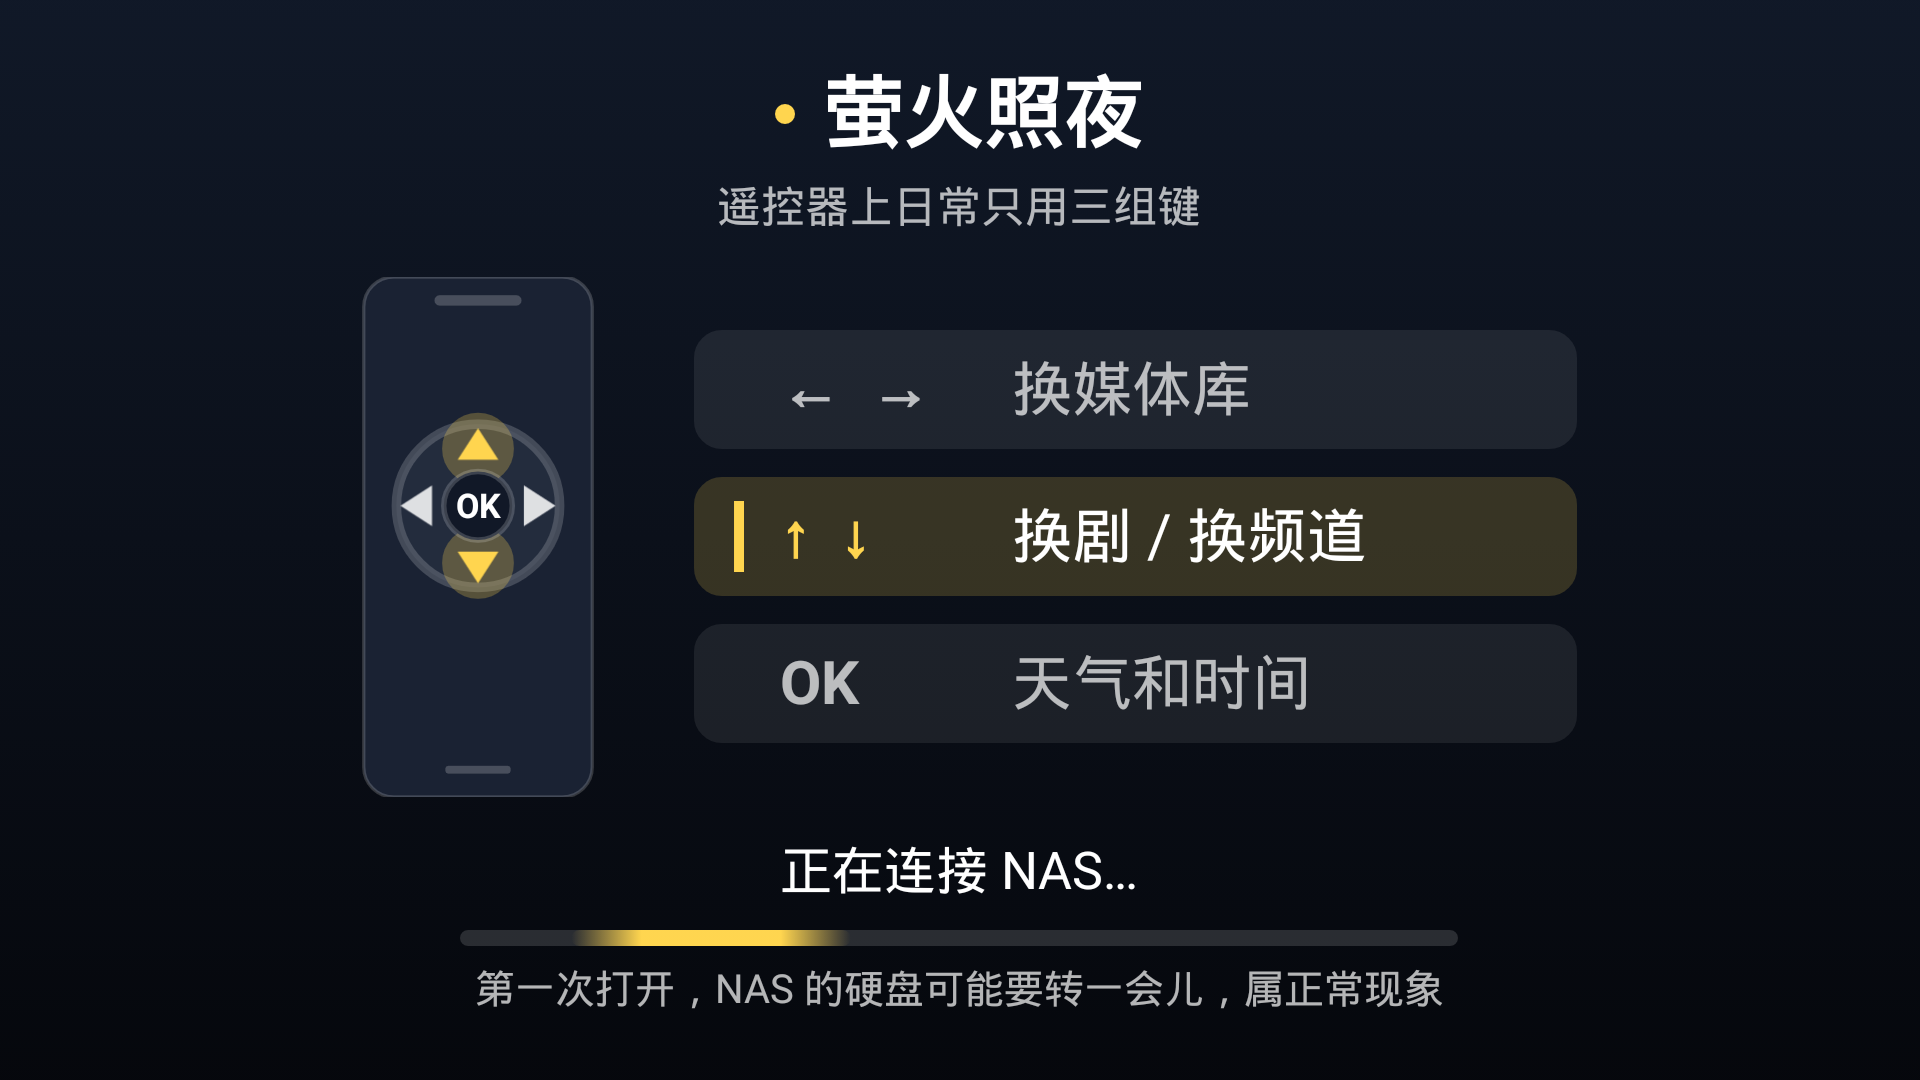
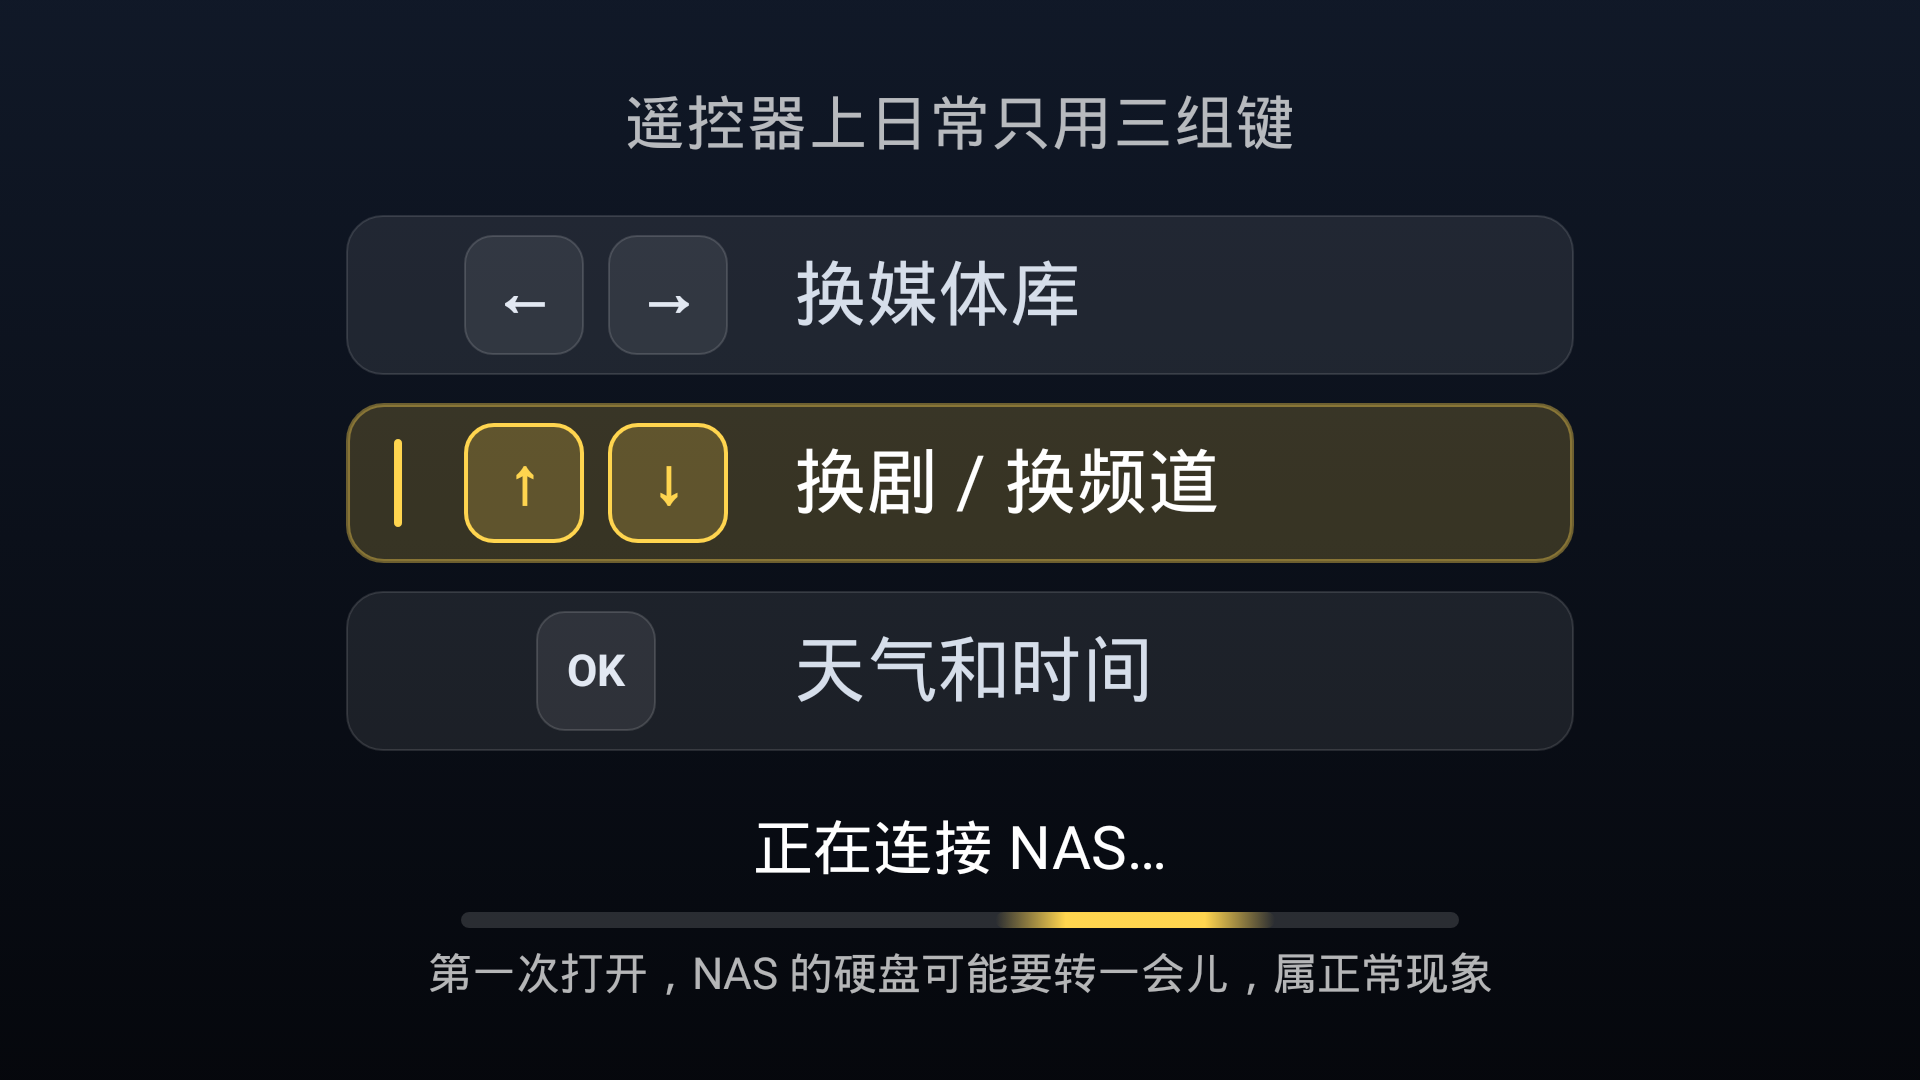
1.1.1：文档与开机页引导视觉
- README/DESIGN/DEVLOG/HANDOVER 更新到 1.1.1 / versionCode 5
- 开机页改为无品牌标题、无遥控器插画的三张键帽引导卡；截图换为 1.1.1 release 的 1080p 实拍
- 安装/回滚/验证范围与 Release SHA 同步；285 项单测

diff --git a/HANDOVER.md b/HANDOVER.md
@@ -1,13 +1,13 @@
 # HANDOVER：构建、发布与维护记录
 
-最后更新：2026-11-21 ｜ 当前版本 1.1.0（versionCode 4）｜ code commit `d6165f0` ｜ tag `v1.1.0`
+最后更新：2026-11-21 ｜ 当前版本 1.1.1（versionCode 5）｜ code commit `6464389` ｜ tag `v1.1.1`
 
 ## 仓库与发布
 
 - Gitea：`http://8.146.238.150:10200/everaine/firefly-tv`，分支 `main`。
-- Release：`v1.1.0`，资产 `app-release.apk`（24,757,677 B，
[1 lines of base64/hex data omitted]
-  本地留档 `firefly-apk/firefly-tv-1.1.0.apk`（`firefly-apk/` 不入库）。
+- Release：`v1.1.1`，资产 `app-release.apk`（24,756,684 B，
[1 lines of base64/hex data omitted]
+  本地留档 `firefly-apk/firefly-tv-1.1.1.apk`（`firefly-apk/` 不入库）。
 - 包名 `com.firefly.tv`；签名复用 Windows debug keystore
[1 lines of base64/hex data omitted]
   同签名覆盖安装保留配置和观看记录。
@@ -31,7 +31,7 @@ ANDROID_HOME='D:\AndroidSDK' WIN_ROOT='E:\firefly-build' \
 - JDK：`C:\Program Files\Microsoft\jdk-17.0.18.8-hotspot`
 - SDK：`D:\AndroidSDK`（build-tools 36.1.0 / platforms 34）
 - Gradle：`%USERPROFILE%\.gradle\wrapper\dists\gradle-8.11.1-bin\...`
-- 验证结果：285 项单测 0 失败；release 构建 2 分 07 秒（缓存热、R8 正常）。
+- 验证结果：285 项单测 0 失败；release 构建正常（缓存热、R8 正常）。
 - `scripts/win-build.sh` 在 WSL 侧先建 `build/apk`，否则 `.bat` 的产物回拷会静默失败；
   该脚本有可执行位（755），其余脚本按 README 用 `bash scripts/xxx.sh` 调用。
 
@@ -76,15 +76,15 @@ GitHub 全量 clone `Bilibili/FFmpeg` 太慢（十几分钟还没完），改用
 1. **从 Release APK 取**（最快）：`unzip -o app-release.apk 'lib/*'`，得到三个 ABI 的
    `libijk*.so`，按 `build-out/ijkplayer-full/<abi>/` 放好，再跑 `pack-ijkplayer-aar.sh`。
 2. **全量重编**：上面的四步。
-3. 不要从 AVD 的 userdata 里取：之前那个 UI-only 的 1.1.0 包 `lib/` 是空的，
+3. 不要从 AVD 的 userdata 里取：之前那个 UI-only 包 `lib/` 是空的，
    先 `unzip -l base.apk | grep lib/` 确认再谈恢复。
 
 ## 测试与验证
 
 - 单测：`testDebugUnitTest` 285 项，0 失败（2026-11-21）。
-- Release APK：`versionCode 4 / versionName 1.1.0`，minSdk 21 / targetSdk 34，
+- Release APK：`versionCode 5 / versionName 1.1.1`，minSdk 21 / targetSdk 34，
   native-code 三个 ABI，debug 签名；安装到 AVD API 22/x86，开机页 smoke test 正常。
-- 截图：`docs/images/boot.png`（新开机页）、`docs/images/switch.png`（换库过渡页）。
+- 截图：`docs/images/boot.png`（1.1.1 新开机页）、`docs/images/switch.png`（换库过渡页）。
   AVD 1920×1080/density 320；配置用 `scripts/push-prefs.sh` + `build/tmp/fake-prefs.xml`
   （gitignored）。过渡页截图是在 debug 预览里隐藏 SurfaceView 后拍的：模拟器软件渲染下
   独立 surface 会盖住普通 View；**release 包没有预览代码**，真实电视上视频层和过渡层正常叠加。
@@ -105,22 +105,23 @@ AVD：`firefly_tv`（API 22 / x86 / 1920×1080 / density 320）。安装：
 
 ## 发布流程
 
-1. `git push origin main`；`git tag -a v1.1.0 -m ... && git push origin v1.1.0`。
+1. `git push origin main`；`git tag -a v1.1.1 -m ... && git push origin v1.1.1`。
 2. Gitea API：`POST /api/v1/repos/everaine/firefly-tv/releases`（token 只从
    `~/.git-credentials` 读，不写进仓库/不打印），body 含安装、覆盖、回滚、未验证项。
 3. 上传资产 `app-release.apk`，记录 SHA-256。
-4. Release 页面：`http://8.146.238.150:10200/everaine/firefly-tv/releases/tag/v1.1.0`。
+4. Release 页面：`http://8.146.238.150:10200/everaine/firefly-tv/releases/tag/v1.1.1`。
 
 ## 回滚
 
-- 从 tag `v1.0.2` 重建：同一份 AAR、同一把 debug keystore，`versionCode 3`。
-- 1.1.0 覆盖安装 1.0.2 会 `INSTALL_FAILED_VERSION_DOWNGRADE`；电视 U 盘安装需要先卸载
-  （会清配置和观看记录），或用 adb `install -d`。所以回滚前先保留 1.0.2 的 APK，再决定。
+- 回滚资产：`firefly-apk/firefly-tv-1.1.0.apk`（1.1.0 / versionCode 4）；Release 侧同版本资产可从 `v1.1.0` 标签重新取。
+- 从 tag `v1.1.0` 重建：同一份 AAR、同一把 debug keystore，`versionCode 4`。
+- 1.1.1 覆盖 1.1.0 是升级；回滚到 1.1.0 是降级，电视 U 盘安装需要先卸载
+  （会清配置和观看记录），或用 adb `install -d`。所以回滚前先保留 1.1.0 的 APK，再决定。
 - 不要换签名：换签名会 `INSTALL_FAILED_UPDATE_INCOMPATIBLE`，卸载会丢配置和记录。
 
 ## 已知坑（按重要性）
 
-- AVD 里的旧 1.1.0 UI-only 包没有 native 库，不能当内核来源。
+- 旧 UI-only 包没有 native 库，不能当内核来源。
 - `win-build.sh` 只同步 `app/src`、`app/build.gradle.kts`、`proguard-rules.pro`、AAR；
   改 settings/root gradle 时要手动同步过去。
 - FFmpeg 全量 clone 慢，见「源码下载慢」。
@@ -132,4 +133,4 @@ AVD：`firefly_tv`（API 22 / x86 / 1920×1080 / density 320）。安装：
 
 - 真机 4K 帧率、中文 TTS、设置键 keyCode、长虹主屏抢占。
 - https 直播源在真实网络下的起播。
-- 老人实际观感：开机页 5 秒、过渡页 0.4 秒、400ms 防抖是否需要调参。
+- 老人实际观感：开机页 1.1.1 三张键帽卡、开机页 5 秒、过渡页 0.4 秒、400ms 防抖是否需要调参。

diff --git a/docs/DEVLOG.md b/docs/DEVLOG.md
@@ -21,6 +21,7 @@
 - [天气](#天气)
 - [诊断页与实验台](#诊断页与实验台)
 - [开机页：把等待说清楚](#开机页把等待说清楚)
+- [开机页视觉重做（1.1.1）](#开机页视觉重做111)
 - [换库过渡页与半透明单向翻页](#换库过渡页与半透明单向翻页)
 - [400ms 方向键防抖](#400ms-方向键防抖)
 - [视图层级与开机页恢复](#视图层级与开机页恢复)
@@ -853,17 +854,29 @@ r=电视剧|猫和老鼠 50周年珍藏版 157集|0|24940|1789134743020
 
 **做法**：每次冷启动和配置保存后的首次起播，先盖一页 `BootScreen`：
 
-- 左半边是一只只保留「方向键 + OK」的遥控器，右半边三行说明轮流高亮，每行 1.6 秒；
+- 顶部只有一句「遥控器上日常只用三组键」；中间三张圆角键帽卡（←→ 换媒体库 / ↑↓ 换剧·换频道 / OK 天气和时间，键帽 60dp），逐行金色高亮，每张 1.6 秒；
 - 底部状态从「正在连接 NAS…」自动升级为「NAS 硬盘正在唤醒，请稍等…」，
-  真的开始读片源时换成「正在读取片源…」；
+  真的开始读片源时换成「正在读取片源…」；进度条与硬盘休眠说明同屏，三段不重叠；
 - 退场规则抽成纯函数 `BootGate`：首帧 + 最短 5 秒才走，故障页要说话时立刻让位，
   最多 90 秒；
 - 首帧在 5 秒内到达时先 `pause()`；只有 READY 退场才 `resume()`，FAULT/TIMEOUT 不恢复 —— 不让声音先于画面，也不让界面报错时背景还有声；
 - 页面显示期间吃掉方向键和 OK，避免教程页上的误按把背后的库/剧切走。
 
-**为什么是 5 秒**：三行 × 1.6 秒 = 4.8 秒，刚好轮完一遍。更短看不完；更长则每次开机
+**为什么是 5 秒**：三张键帽卡 × 1.6 秒 = 4.8 秒，刚好轮完一遍。更短看不完；更长则每次开机
 （包括 NAS 已经醒着的时候）都要白等。实际等待超过 5 秒的部分由 NAS 决定，页面会一直
 留到首帧或故障。
+
+## 开机页视觉重做（1.1.1）
+
+旧版开机页顶部有品牌标题「萤火照夜」、左侧有手机/遥控器插画，占掉近半屏，第一眼更像一张海报；老人需要的是「按哪个键」，插画帮不上忙。
+
+1.1.1 改成三段式：
+
+- 顶部只有一句「遥控器上日常只用三组键」；
+- 中间三张圆角引导卡：←→ 换媒体库、↑↓ 换剧 / 换频道、OK 天气和时间；键帽 60dp；三张卡逐行金色高亮，每张 1.6 秒；
+- 底部 NAS 状态、进度条、硬盘休眠说明；三段之间不重叠。
+
+行为（最短 5 秒 / 最长 90 秒、故障让位、READY 恢复、按键吞掉）与上一版相同，只重做视觉层。
 
 ## 换库过渡页与半透明单向翻页
 
